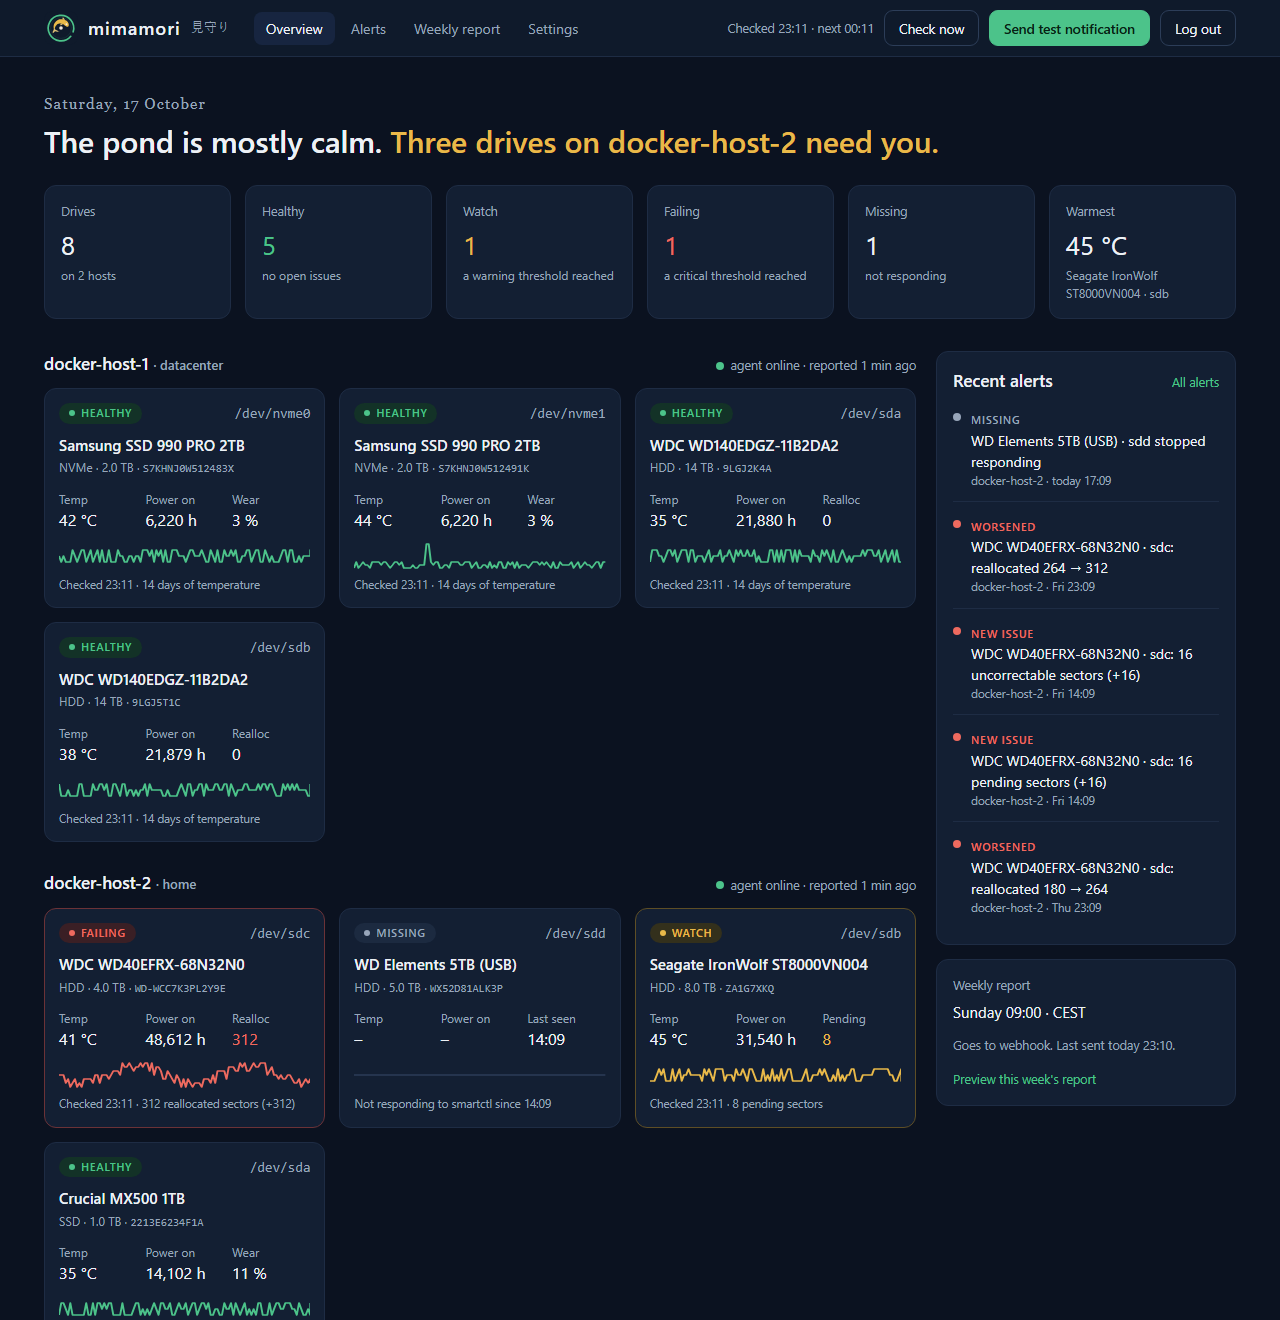
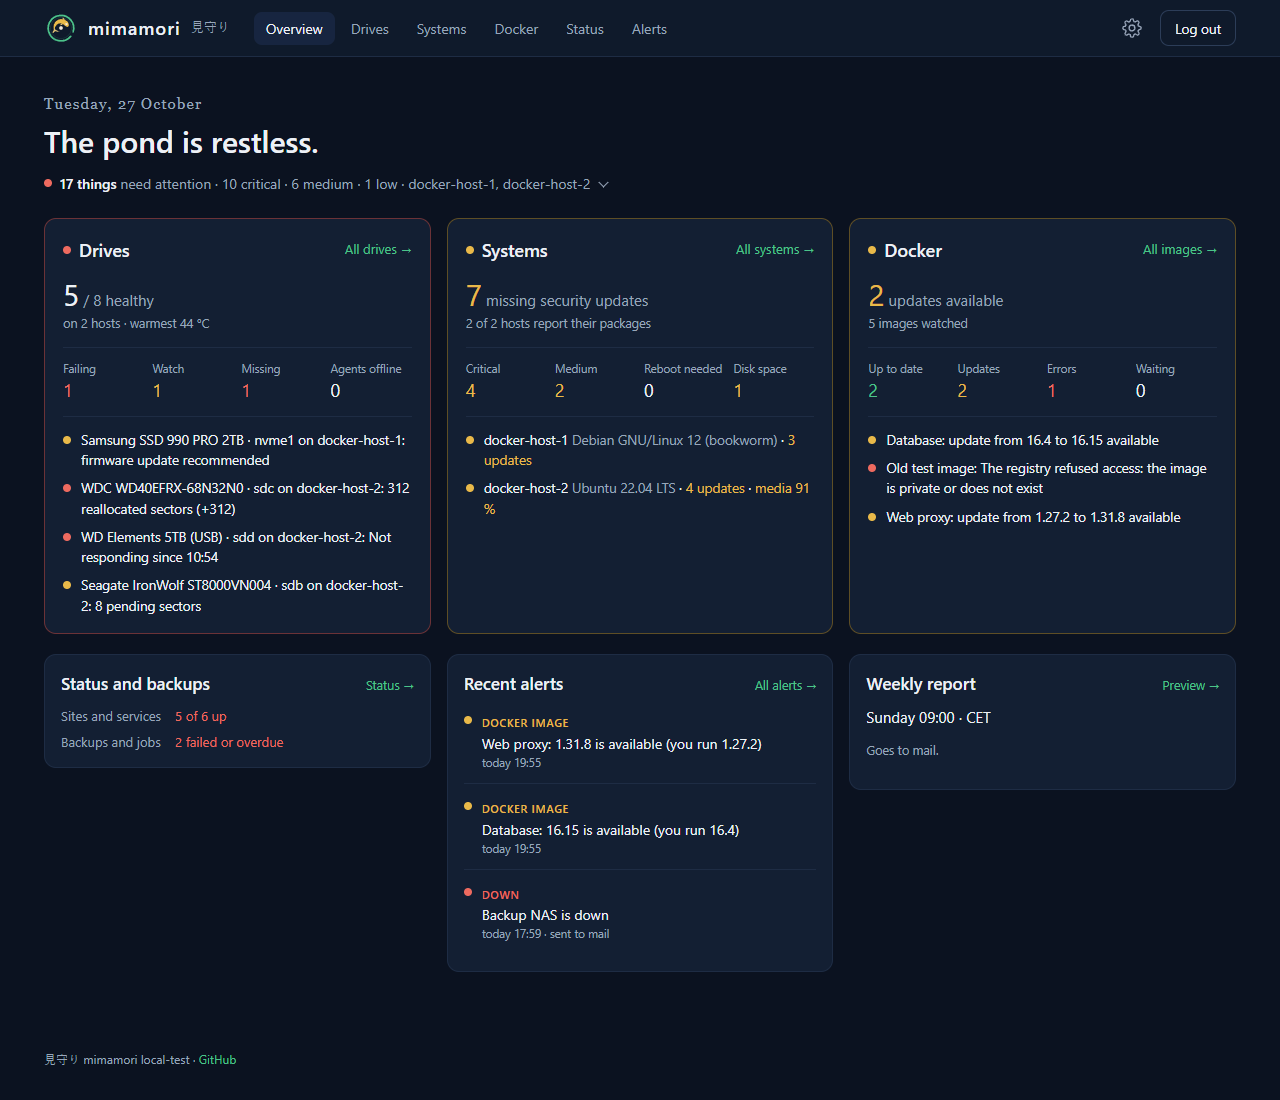
Describe mimamori as a monitor for hosts and services, with new screenshots

diff --git a/README.md b/README.md
@@ -2,38 +2,44 @@
 
 # mimamori 見守り
 
-A self-hosted **drive health monitor**. It watches the SMART data of the drives on all your hosts, keeps their history and tells you when a drive starts to fail, before it takes your data with it. *Mimamori* is Japanese for "watching over".
+A self-hosted **monitor for your hosts and services**. One page shows what needs you: failing drives, missing security updates, full disks, websites that stop answering, backups that failed or did not run, and Docker images with a newer version. *Mimamori* is Japanese for "watching over".
 
 <br clear="left">
 
 > **Beta:** every version below 1.0 is a beta. mimamori works and is used every day, but settings and pages may still change between versions. Read the release notes before you update.
 
-A server container runs behind your reverse proxy, and a small agent container on every host whose drives you want to watch.
+A server container runs behind your reverse proxy. A small agent container on each host reports its drives, packages and disk space. Status checks, backups and Docker images need no agent: the server checks them itself, or the job reports to it.
 
-![mimamori on a desktop: eight drives on two hosts, one failing with rising reallocated sectors, one to watch and one missing](docs/screenshots/desktop.png)
+![mimamori on a desktop: the overview with drives, systems, Docker images, status checks and recent alerts of two hosts](docs/screenshots/desktop.png)
 
-## Features
+## What it watches
 
-<img src="docs/screenshots/phone.png" alt="mimamori on a phone: compact list of all drives with status and temperature" width="240" align="right">
+<img src="docs/screenshots/phone.png" alt="mimamori on a phone: the overview with the drives and systems that need attention" width="240" align="right">
 
-- **Every drive on one page**: status, temperature, power-on hours, wear and sector counts, grouped by host, with a history of up to a year
-- **Thresholds you set**, per drive type or per drive. A reallocated or pending sector means *Watch*, a growing count *Failing*
-- **Disk space** of the host's filesystems, matched to their drives, with a trend and a warning before one is full
-- **Status monitor**: the server checks your websites (HTTP and HTTPS with their certificate), TCP ports and hosts by ping, and tells you when one stops answering
+- **Drives**: SMART data of every drive on every host, with temperature, power-on hours, wear and sector counts, a history of up to a year and thresholds you set per drive type or per drive. A reallocated or pending sector means *Watch*, a growing count *Failing*
+- **Systems**: missing security updates of Debian, Ubuntu and Alpine hosts, a pending reboot after a kernel update, drive firmware with a known bug ([details](docs/updates.md)), and how full each filesystem is, with a trend and a warning before it is full
+- **Sites and services**: the server checks websites (HTTP and HTTPS, with their certificate), TCP ports and hosts by ping, and tells you when one stops answering or a certificate is about to expire
 - **Backups and jobs**: Backrest, cron jobs and scripts report each run to a secret URL; mimamori tells you when one fails or does not run in time
-- **Docker images**: the server asks Docker Hub, GHCR and other registries whether a newer version of the images you run exists, and you confirm on the page once you updated by hand
-- **Missing updates**: drive firmware with a known bug, and missing security updates of Debian, Ubuntu and Alpine hosts ([details](docs/updates.md))
-- **Notifications** to Discord, mail and your own webhook, chosen per channel, plus a weekly report
+- **Docker images**: the server asks Docker Hub, GHCR and other registries whether a newer version of the images you run exists. You update by hand and confirm on the page
+- **Notifications** to Discord, mail and your own webhook, chosen per channel and topic, plus a weekly report
+- **Read-only API** for dashboards and scripts, and a [Home Assistant integration](https://github.com/Pascal2108/mimamori-homeassistant) ([API](docs/api.md))
 - **Small, safe agents**: about 30 MB of memory and next to no CPU, no open port, end-to-end encrypted, the network part runs without any privilege ([details](SECURITY.md#how-mimamori-is-secured))
 - **No JavaScript, nothing loaded from other servers**
 
-The screenshots show made-up drives.
-
 <br clear="right">
+
+| | |
+|---|---|
+| ![A failing drive: 312 reallocated sectors, charts of temperature and sector counts over 30 days](docs/screenshots/drive.png) | ![A host: disk space per filesystem with a trend, missing security updates and drive firmware](docs/screenshots/host.png) |
+| **A drive**: history, SMART table, thresholds | **A host**: disk space, security updates, firmware |
+| ![The status monitor: six sites and services with uptime and response times, three backups and jobs](docs/screenshots/status.png) | ![Docker images: two with a newer version, confirmed by hand after the update](docs/screenshots/docker.png) |
+| **Status**: sites, services, backups and jobs | **Docker**: images with a newer version |
+
+The screenshots show made-up hosts, drives and updates.
 
 ## Getting started
 
-You need Docker with Docker Compose, a reverse proxy that provides HTTPS (e.g. Nginx Proxy Manager), and on every host to watch, its drives as `/dev/sd…` or `/dev/nvme…`.
+You need Docker with Docker Compose and a reverse proxy that provides HTTPS (e.g. Nginx Proxy Manager). For the drives of a host, they must be visible to it as `/dev/sd…` or `/dev/nvme…`.
 
 ### 1. Server
 
@@ -48,22 +54,28 @@ cp secrets.env.example secrets.env
 3. Start it: `docker compose up -d`. The log (`docker compose logs -f`) shows `mimamori … started`.
 4. In your reverse proxy, add a host that forwards to `http://mimamori:8000`, with a certificate and **Force SSL**. The server publishes no port of its own, so all traffic goes through the proxy. Use exactly one proxy: the login lockout relies on the address it reports.
 
+Status checks, backups and Docker images work from here on. Add them on the **Status** and **Docker** pages ([see below](#using-it)).
+
 ### 2. Agents
 
-On every host with drives to watch, including the server's host if it has some:
+On every host to watch, including the server's host:
 
 1. On the page, open **Settings → Agents**, enter the host's name and click **Create agent key**. The key is shown only once.
 2. Copy `docker-compose.agent.yml` and `agent.env.example` to the host, rename the latter to `agent.env` and fill in `SERVER_URL` (the HTTPS address of mimamori) and `AGENT_KEY`. Then `chmod 600 agent.env`.
 3. In `docker-compose.agent.yml`, set `AGENT_NAME` and list the drives under `devices` (`ls /dev/sd? /dev/nvme?`), each as `/dev/sdb:/dev/sdb:r`, so the container can only read them. Without NVMe drives, remove the line `- SYS_ADMIN`.
-4. Start it: `docker compose -f docker-compose.agent.yml up -d`. The log shows `Reported … device(s)`, and the drives appear on the page within a minute.
+4. Start it: `docker compose -f docker-compose.agent.yml up -d`. The log shows `Reported … device(s)`, and the host appears on the page within a minute.
 
-**Optional:** to have the host checked for missing security updates, remove the `#` in front of its `volumes:` lines in `docker-compose.agent.yml`, recreate the agent, and turn the check on under **Settings → Updates** ([details](docs/updates.md)).
+**Security updates (optional):** remove the `#` in front of the host's package list lines under `volumes:` in `docker-compose.agent.yml`, recreate the agent, and turn the check on under **Settings → Updates** ([details](docs/updates.md)).
 
-**Optional:** to see how full the host's filesystems are, create an empty folder on each of them (e.g. `mkdir /srv/mimamori-fs`) and mount it read-only under `/host/fs/<name>`, as shown under `volumes:` in `docker-compose.agent.yml`. The agent only asks how full the filesystem under the folder is; it cannot read a single file of the host this way. This needs agent 0.3.2 or newer.
+**Disk space (optional):** create an empty folder on each filesystem (e.g. `mkdir /srv/mimamori-fs`) and mount it read-only under `/host/fs/<name>`, as shown under `volumes:` in `docker-compose.agent.yml`. The agent only asks how full the filesystem under the folder is; it cannot read a single file of the host this way. This needs agent 0.3.2 or newer.
 
 ## Using it
 
-The **overview** shows every host with its drives. Drive problems and missing updates are ranked together as critical, medium or low, and the headline follows the worst of them. Click a drive for its history and thresholds, a host's name for its packages and updates. **Check now** makes every agent check within a minute.
+The **overview** sums up drives, systems, Docker images, status checks and backups. Everything that needs you is ranked as critical, medium or low, and the headline follows the worst of it. **Check now** on the Drives page makes every agent report within a minute.
+
+### Drives
+
+**Drives** lists every drive by host. Click one for its history, SMART table and thresholds.
 
 | State | When |
 |---|---|
@@ -74,6 +86,12 @@ The **overview** shows every host with its drives. Drive problems and missing up
 
 A few remapped sectors on an old drive can stay stable for years, a count that keeps rising cannot. That is why only growth counts as Failing.
 
+### Systems
+
+**Systems** shows every host with its operating system, missing security updates, a pending reboot and how full its filesystems are. Click a host for its packages, the updates it misses, the firmware of its drives and the trend of its disk space. A filesystem counts as filling up from 85 % and as almost full from 95 %.
+
+### Sites and services
+
 **Status** lists the websites and services the server checks itself. Add one with **Add a check** and choose what to check:
 
 | Check | What counts as up |
@@ -83,6 +101,8 @@ A few remapped sectors on an old drive can stay stable for years, a count that k
 | **Ping** | The host answers an ICMP echo request |
 
 A check counts as down after a number of failed checks in a row (2 by default), so one lost packet does not wake you up. Who gets told about down, back up and expiring certificates is chosen in **Settings → Notifications**, like everything else. The checks run on the server and see the network as it does: addresses in your home network work, loopback, link-local (`169.254.x.x`, cloud metadata) and multicast addresses are never checked, and redirects are not followed.
+
+### Backups and jobs
 
 **Backups and jobs**, also on the Status page, are the other way round: the job reports to mimamori. Add one with **Add a backup or job**, say how often it runs and how late it may be, and copy the secret URL that is shown once. The job then sends a POST to it, in the same way as for healthchecks.io:
 
@@ -95,6 +115,8 @@ A check counts as down after a number of failed checks in a row (2 by default), 
 
 For **Backrest**, add a hook of the type *Healthchecks* to the plan with this URL, for the conditions `CONDITION_SNAPSHOT_START`, `CONDITION_SNAPSHOT_SUCCESS` and `CONDITION_SNAPSHOT_ERROR`. For a script: `curl -fsS -m 10 --retry 3 -X POST <url>/$?` at its end. A failure is reported at once, a missing success once the interval plus the allowed delay has passed since the last one, which also catches a job that never started. The text in the request body (e.g. Backrest's summary) shows up on the page and in the alert.
 
+### Docker images
+
 **Docker** lists the images your containers run. Add one with **Add an image**: the image as in your compose file (`nginx`, `linuxserver/sonarr`, `ghcr.io/owner/app`), the version you run, and what counts as an update:
 
 | Choice | Example | You are told about |
@@ -105,6 +127,10 @@ For **Backrest**, add a hook of the type *Healthchecks* to the plan with this UR
 | **This tag** | `latest`, `beta` | the tag pointing to a new image (e.g. a rebuild with security fixes) |
 
 Only tags of the same form count: after `1.27.2-alpine` comes `1.27.3-alpine`. A new version shows up on the overview (and, if you turn it on under **Settings → Notifications**, in your channels). Update the container by hand, e.g. `docker compose pull && docker compose up -d`, then click **Confirm** with the version you now run. The server asks the registries every 12 hours by default, or only when you click **Check**. It never changes anything on your hosts, and the agents are not involved. Only public images work: mimamori stores no registry passwords.
+
+### API and Home Assistant
+
+Under **Settings → API tokens** you create tokens for the read-only API. It returns in one answer what the overview shows, for dashboards, scripts and the [Home Assistant integration](https://github.com/Pascal2108/mimamori-homeassistant). Nothing can be changed through it. See [API](docs/api.md).
 
 If something does not work, see [Troubleshooting](docs/troubleshooting.md).
 

diff --git a/.github/dockerhub-overview.md b/.github/dockerhub-overview.md
@@ -2,19 +2,22 @@
 
 # mimamori 見守り
 
-A self-hosted **drive health monitor**: it watches the SMART data of the drives on all your hosts, keeps their history and tells you when a drive starts to fail. *Mimamori* means "watching over".
+A self-hosted **monitor for your hosts and services**: failing drives, missing security updates, full disks, websites that stop answering, backups that failed or did not run, and Docker images with a newer version, on one page. *Mimamori* means "watching over".
 
 <br clear="left">
 
 **Full documentation, setup guide and source code: [github.com/Pascal2108/mimamori](https://github.com/Pascal2108/mimamori)**
 
-This is the **server** image with the web page. Every host with drives to watch runs the small agent image [`pascal2108/mimamori-agent`](https://hub.docker.com/r/pascal2108/mimamori-agent).
+This is the **server** image with the web page. It checks websites, services and Docker images itself and receives the reports of backups and jobs. Every host to watch runs the small agent image [`pascal2108/mimamori-agent`](https://hub.docker.com/r/pascal2108/mimamori-agent).
 
 ## Features
 
-- **One page for every host**: status, temperature, power-on hours, wear, reallocated, pending and uncorrectable sectors, with history charts and the full SMART table
-- **Thresholds you set**: defaults per drive type, overridable per drive; any bad sector marks a drive as *Watch*, a growing count as *Failing*
-- **Notifications** to Discord, mail and your own signed webhook, plus a weekly report
+- **Drives**: SMART data of every drive on every host, with history charts and thresholds you set; any bad sector marks a drive as *Watch*, a growing count as *Failing*
+- **Systems**: missing security updates of Debian, Ubuntu and Alpine hosts, pending reboots, drive firmware with known bugs, and how full each filesystem is
+- **Sites and services**: HTTP(S) with certificate expiry, TCP ports and ping, checked by the server
+- **Backups and jobs**: Backrest, cron jobs and scripts report each run to a secret URL; mimamori tells you when one fails or does not run in time
+- **Docker images**: tells you when a newer version of the images you run exists
+- **Notifications** to Discord, mail and your own signed webhook, plus a weekly report; a read-only API and a Home Assistant integration
 - **Safe agent connection**: every message between agent and server is encrypted, signed in both directions and cannot be replayed; the server keeps only public keys
 - **Hardened container**: runs as non-root, read-only, all capabilities dropped
 

diff --git a/.github/dockerhub-overview-agent.md b/.github/dockerhub-overview-agent.md
@@ -2,7 +2,7 @@
 
 # mimamori agent
 
-The small agent for [mimamori](https://hub.docker.com/r/pascal2108/mimamori), the self-hosted drive health monitor. It reads the SMART data of a host's drives with smartctl and reports it to the mimamori server.
+The small agent for [mimamori](https://hub.docker.com/r/pascal2108/mimamori), the self-hosted monitor for your hosts and services. It reads the SMART data of a host's drives with smartctl and, if you mount them, its package list and the fill level of its filesystems, and reports them to the mimamori server.
 
 <br clear="left">
 
